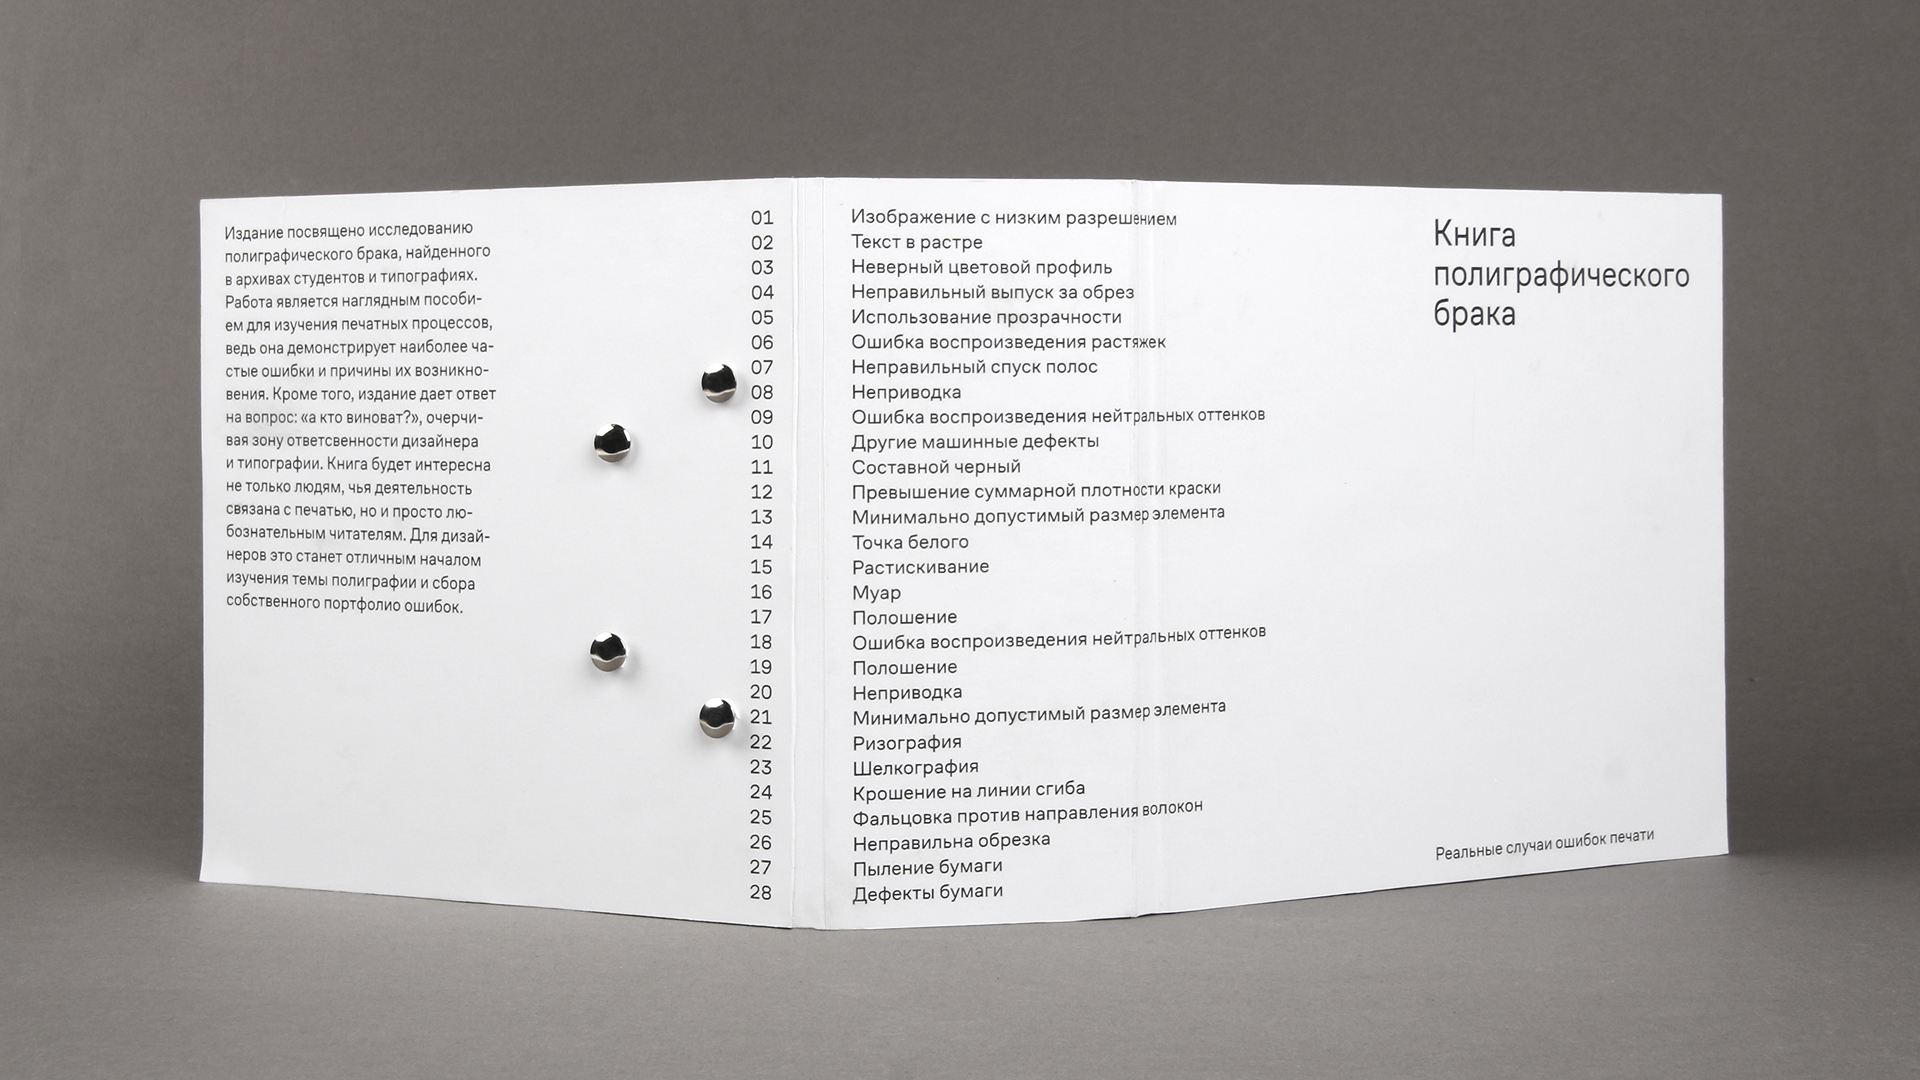
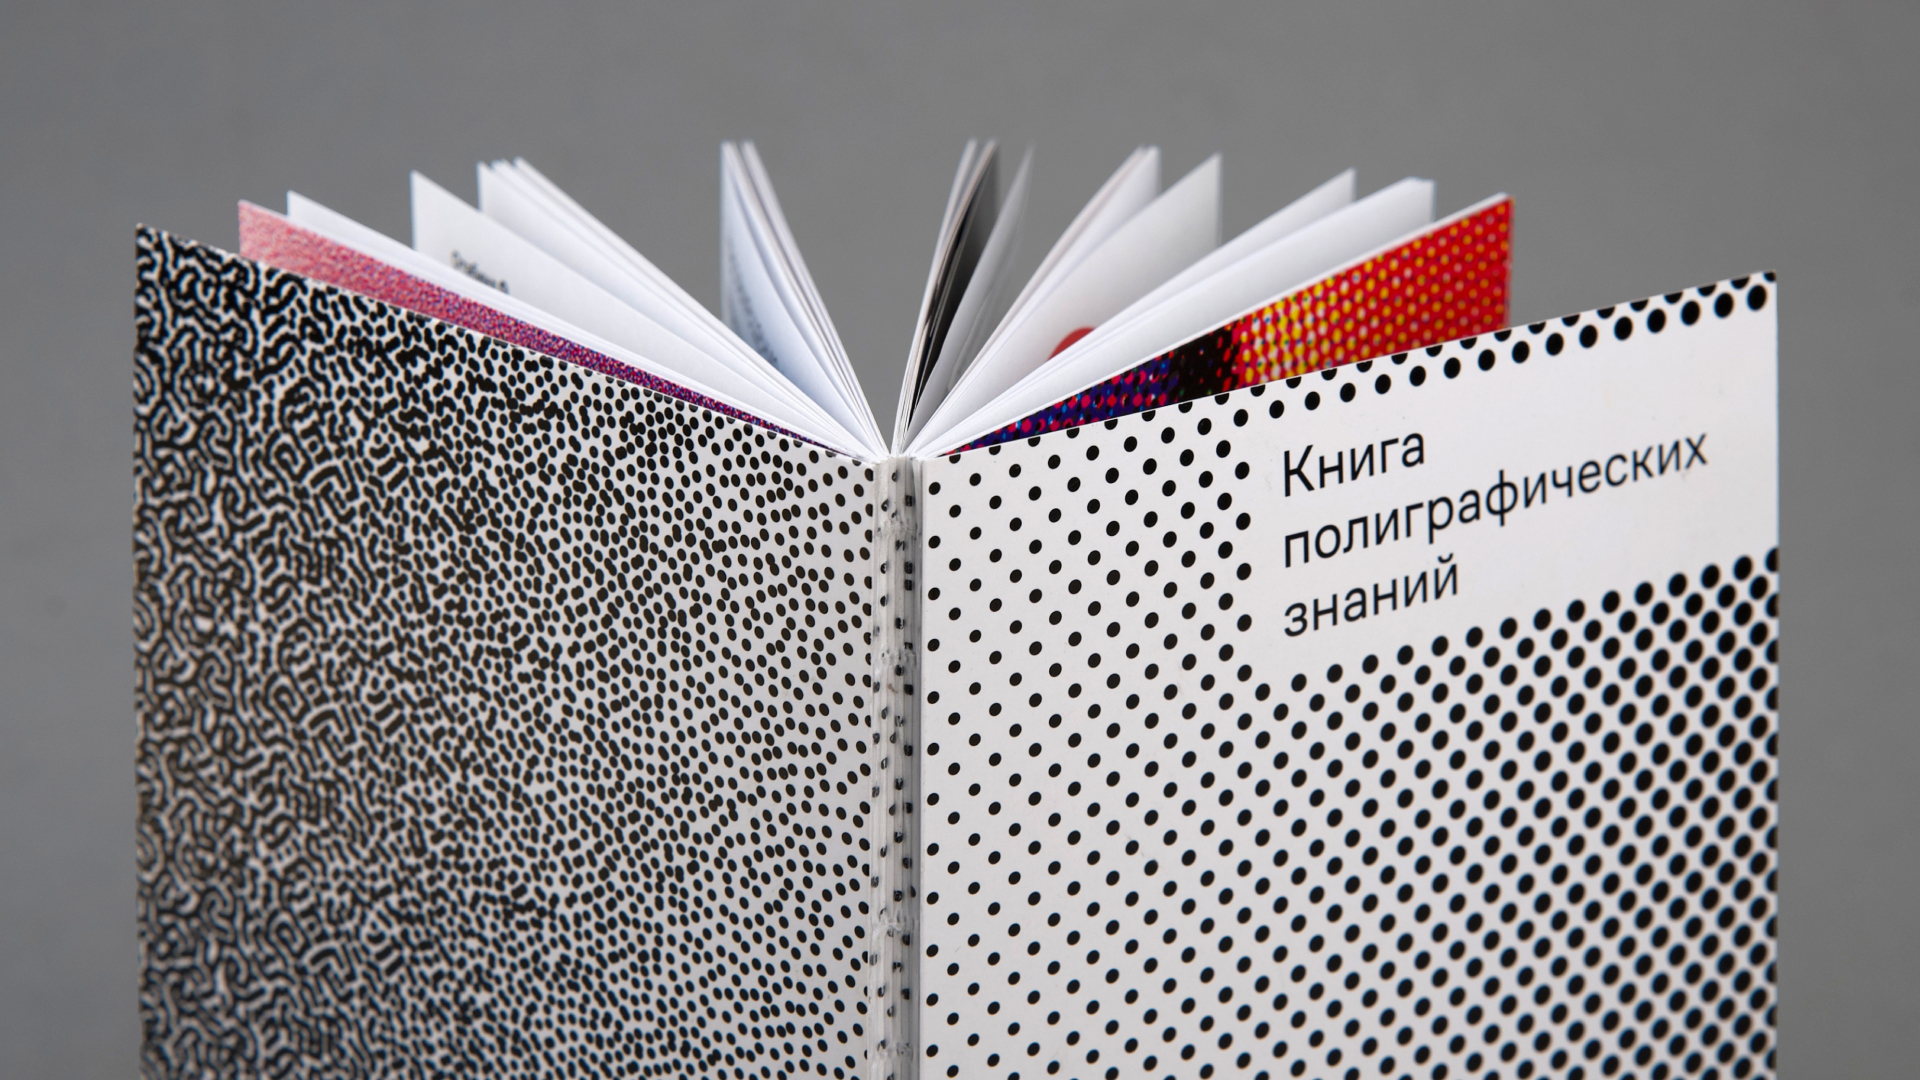
bebe

diff --git a/index.html b/index.html
@@ -649,10 +649,11 @@ body {
     <div class="pink-slider-track">
       <div class="pink-slider-clip">
         <!-- Replace src values with your actual images -->
-        <img src="book1.png" class="active" alt="Фото книги 1">
+        <img src="book0.jpg" class="active" alt="Фото книги 1">
+        <img src="book3.jpg">
         <img src="book2.jpg" alt="Фото книги 2">
-        <img src="book3.jpg" alt="Фото книги 3">
-        <img src="book1.png" alt="Фото книги 4">
+        <img src="book4.jpg" alt="Фото книги 3">
+        <img src="book1.jpg" alt="Фото книги 4">
       </div>
       <button class="pink-slider-btn" id="pinkPrev" aria-label="Назад">
         <svg viewBox="0 0 22 22"><path d="M14 4L8 11l6 7"/></svg>
@@ -702,7 +703,7 @@ body {
                 <div class="lesson-title">Профили в Photoshop</div>
               </div>
             </a>
-            <a class="download-btn" href="https://disk.yandex.ru/" target="_blank">Скачать профиль ISO</a>
+            <a class="download-btn" href="https://disk.yandex.ru/d/Jvh2sS5Zixj38w" target="_blank">Скачать профиль ISO</a>
           </div>
 
           <a class="lesson-card" href="https://vkvideo.ru/video-238876193_456239021?list=ln-9Bb0Eey33sW5PzW0ka" target="_blank">
@@ -733,7 +734,7 @@ body {
       <div class="panel-inner panel-inner-scroll bg-pink" style="width:100%; align-items:flex-start; justify-content:flex-start;">
         <div class="pink-box">Книга станет карманным помощником в&nbsp;мире печати для начинающих специалистов. Простым языком она расскажет о&nbsp;том, что такое муар и&nbsp;стохастический растр, поможет выбрать правильный оттенок серого, бумагу, переплёт и&nbsp;многое другое.</div>
         <div class="pink-box">Ее&nbsp;уникальность заключается в&nbsp;наглядности, ведь каждый случай иллюстрируется на&nbsp;практике. Более того, книга напечатана с&nbsp;использованием двух технологий: большая часть отпечатана на&nbsp;цифровой машине, а&nbsp;избранные главы&nbsp;&mdash; на&nbsp;офсетной.</div>
-        <a class="download-btn pink-btn" href="#" target="_blank">Читать о проекте подробнее</a>
+        <a class="download-btn pink-btn" href="https://hsedesign.ru/project/acc408691b0e49c8b6bf4932f9912d7d" target="_blank">Читать о проекте подробнее</a>
       </div>
     </div>
     <div class="menu-tab bg-pink" data-panel="panelPink" data-size="custom"><span class="num num-pink">①</span></div>